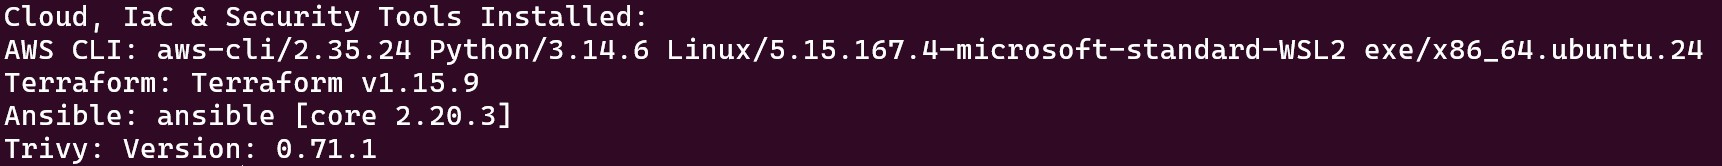
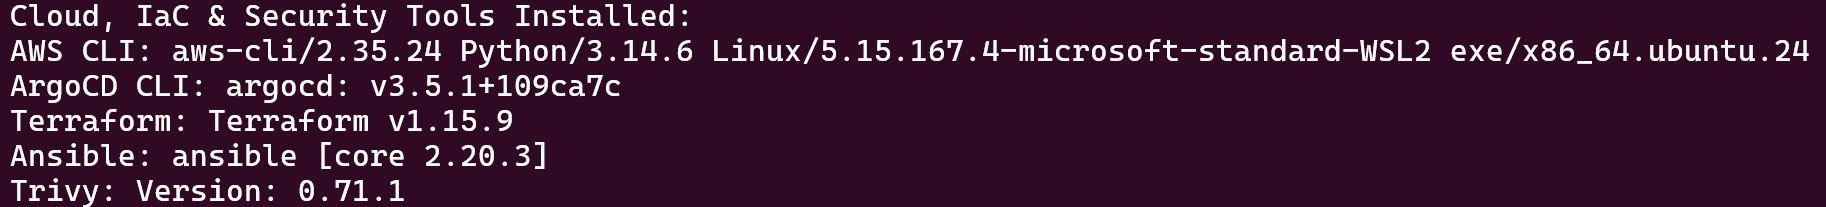
update gitops configuration

Changed region(s): [[0.0, 0.0, 1.0, 1.0]]

diff --git a/config/gitops/README.md b/config/gitops/README.md
@@ -7,14 +7,17 @@ A declarative GitOps continuous delivery setup deployed on Kubernetes. Features 
 | **Argo CD UI** | `argocd` | `https://localhost:30082` | `admin` / *(Generated below)* |
 | **Nginx Demo App** | `argocd` | `http://localhost:30080` | N/A |
 
-### 🛠 Namespace Initialization
+
+### 🚀 Argo CD Deployment (GitOps Engine)
+
+1. Namespace Initialization
 ```sh
 # Provision Isolated Namespaces
 kubectl create namespace argocd
+kubectl create namespace dev
 ```
 
-### 🚀 Argo CD Deployment (GitOps Engine)
-1. Deploy Argo CD and expose the web dashboard via NodePort.
+2. Deploy Argo CD and expose the web dashboard via NodePort.
 ```sh
 # 1. Install Pinned Argo CD Release
 kubectl apply -n argocd \
@@ -38,33 +41,72 @@ kubectl get svc argocd-server -n argocd
 ```
 ![argo-pods](/assets/argocd-pods.jpg)
 
-2. Deploy Nginx demo application to ArgoCD
+3. ArgoCD server login `http://localhost:30082` and set the credentials
+
+4. Deploy Nginx demo application to ArgoCD
 ```sh
 # deploy nginx demo application to ArgoCD
-kubectl apply -f gitops/apps/nginx-demo-app.yaml
+kubectl apply -f gitops/apps/nginx-app.yaml
 
 # verify nginx demo application
 kubectl get applications -n argocd
 
 # 3. Verify Deployed Pods & Service in argocd namespace
-kubectl get pods -n argocd -l app=nginx-demo
-kubectl get svc nginx-demo -n argocd
+kubectl get pods -n dev
+kubectl get svc -n dev
 ```
+![nginx-pods](/assets/nginx-pods.jpg)
 ![argocd-deploy](/assets/argocd-deploy.jpg)
 
-3. Test Local Application Access
+5. Test Local Application Access
 ```sh
 # Access the Nginx demo application directly via the exposed NodePort endpoint
 curl -I http://localhost:30080
 ```
 ![app-verify](/assets/nginx-app.jpg)
 
-4. Delete Application via Argo CD
+6. Delete Application via Argo CD
 ```sh
 # Delete the Argo CD Application resource
-kubectl delete -f gitops/apps/nginx-demo-app.yaml
+kubectl delete -f gitops/apps/nginx-app.yaml
 
 # Verify pods & service are terminated
-kubectl get pods -n argocd -l app=nginx-demo
-kubectl get svc nginx-demo -n argocd
+kubectl get pods -n dev
+kubectl get svc -n dev
+```
+
+
+# 🛠 GitOps CLI Operations (Optional)
+While Argo CD operates declaratively via Git commits and the Web UI, the **Argo CD CLI** is useful for scripting, manual triggers, and integrating with CI/CD runners (e.g., Jenkins, GitHub Actions).
+
+1. CI/CD Server Authentication & Login
+Follow these non-interactive steps to authenticate the CLI against your local cluster endpoint.
+```sh
+# 1. Set the Argo CD NodePort Endpoint
+ARGOCD_SERVER="localhost:30082"
+
+# 2. Retrieve the Initial Admin Password
+ARGOCD_PASSWORD=$(kubectl -n argocd get secret argocd-initial-admin-secret -o jsonpath="{.data.password}" | base64 -d)
+
+# 3. Authenticate Non-Interactively (--insecure bypasses self-signed SSL certs)
+argocd login $ARGOCD_SERVER \
+  --username admin \
+  --password "$ARGOCD_PASSWORD" \
+  --insecure
+```
+
+2. Common CI Pipeline Commands
+Use these commands within automation scripts to manage and monitor deployments:
+```sh
+# List all managed applications and their status
+argocd app list
+
+# Force an immediate sync for an application
+argocd app sync nginx-app
+
+# Block execution until the application reaches a Healthy state (ideal for CI stages)
+argocd app wait nginx-app --health
+
+# View sync history and revision logs
+argocd app history nginx-app
 ```

diff --git a/docs/tools-versions.md b/docs/tools-versions.md
@@ -57,6 +57,7 @@
 | **Ansible Core** | Configuration Management | `v2.20.3` |
 | **Trivy** | Container & Vulnerability Scanner | `v0.71.1` |
 | **AWS CLI** | Cloud Management CLI | `v2.35.24` |
+| **ArgoCD CLI** | Application Management CLI | `v3.5.1` |
 | **Git** | Distributed Version Control | `v2.43.0` |
 | **JQ / YQ** | JSON & YAML Processors | `jq-1.7` / `v4.53.3` |
 | **GNU Make** | Build Automation | `v4.3` |
